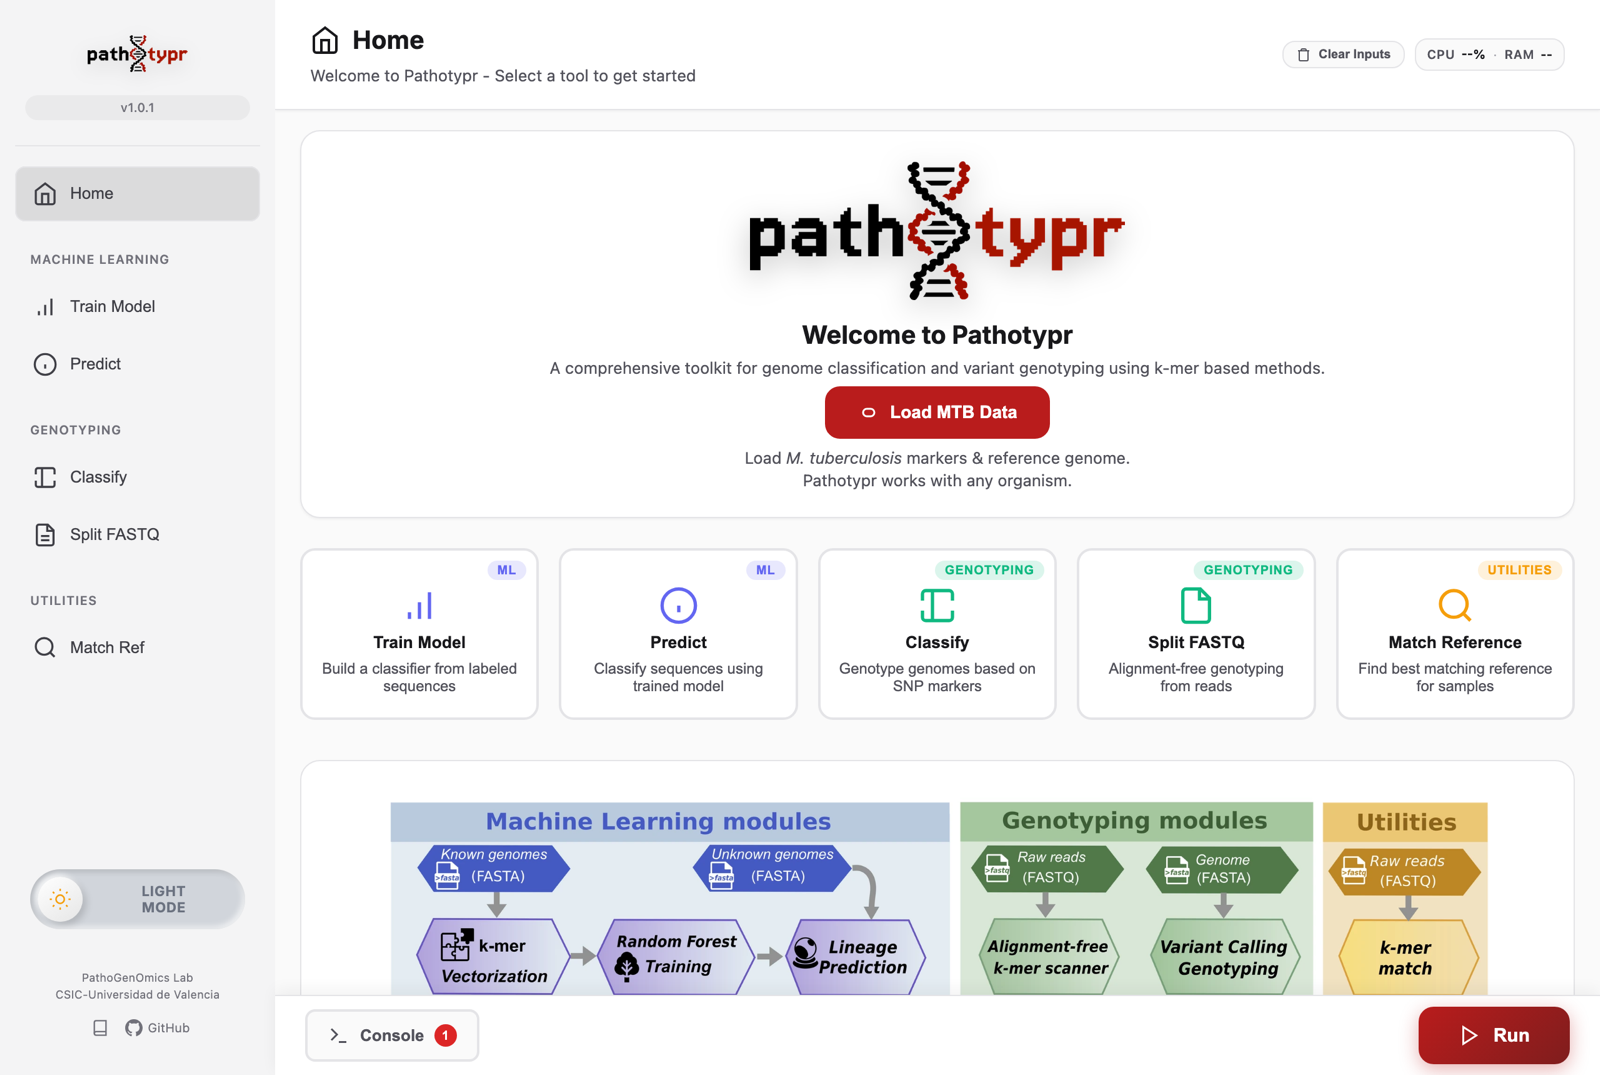
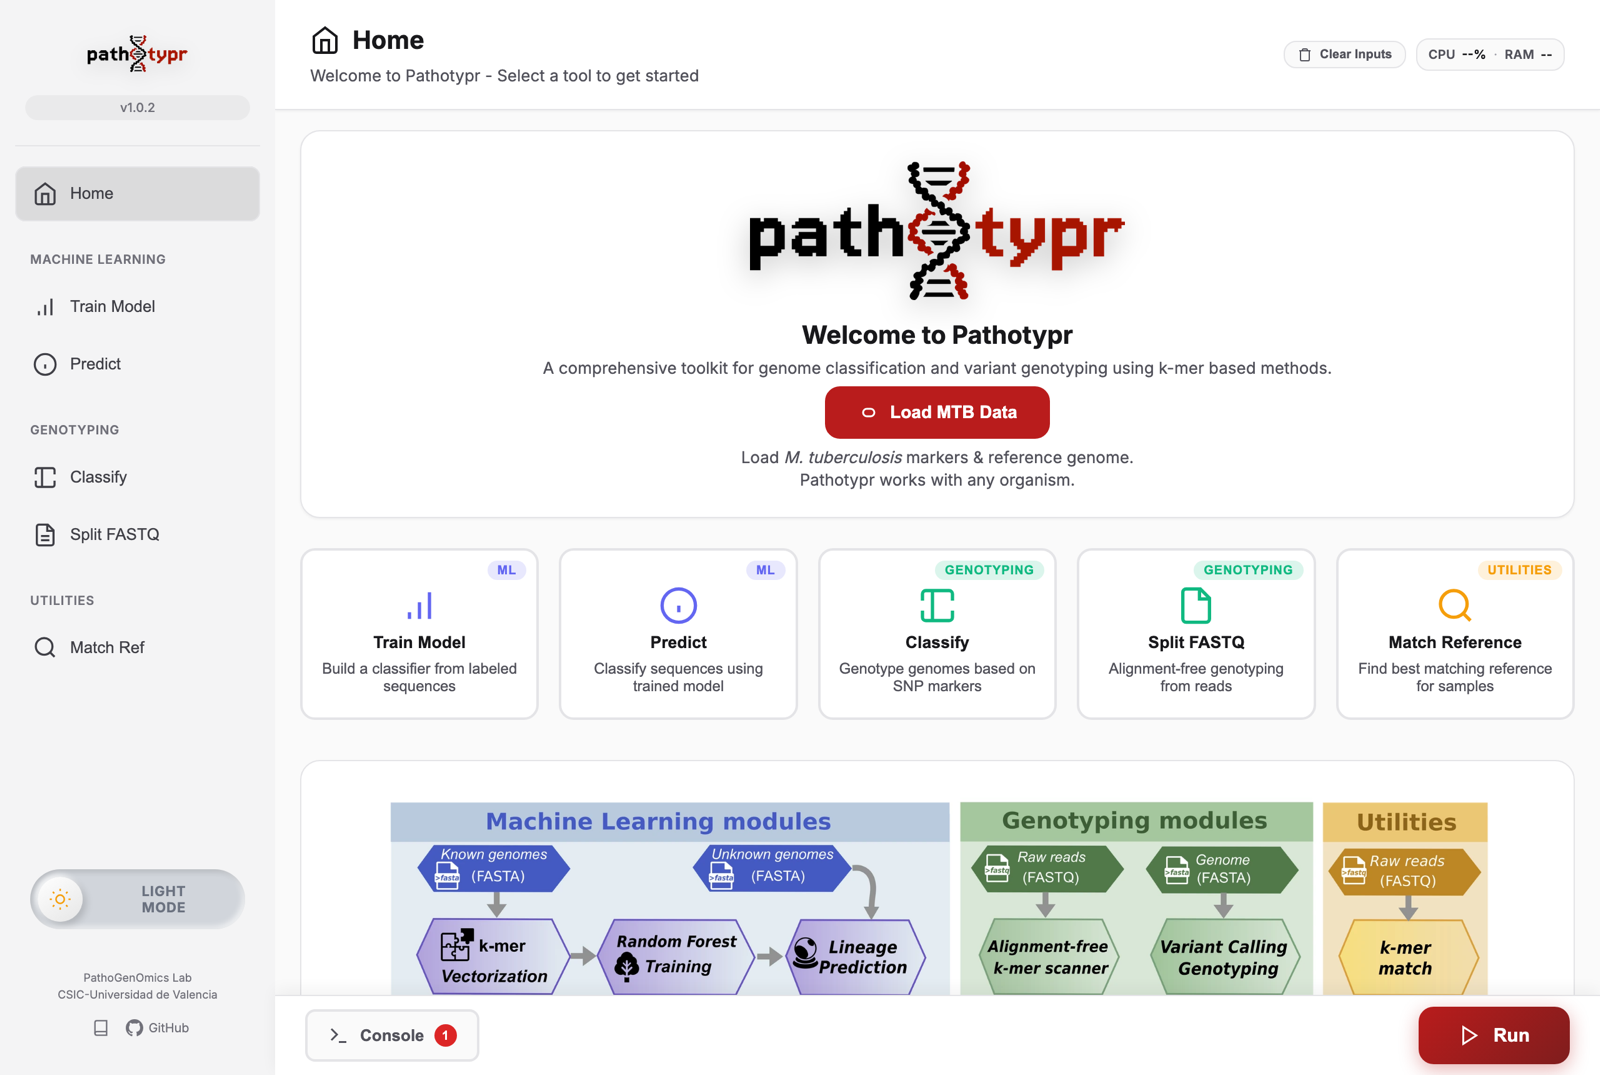
chore(release): align the remaining version strings with 1.0.2
The sidebar's placeholder version and the docs workflow's branch trigger were
still on 1.0.1. The placeholder is replaced at startup by the version the backend
reports, so the app was never wrong, but it is what a statically rendered
screenshot shows, and the documentation screenshots were showing 1.0.1. The
workflow would not have deployed the docs from this branch at all.

diff --git a/frontend/index.html b/frontend/index.html
@@ -20,7 +20,7 @@
         <img src="logo.png" alt="Pathotypr" id="app-logo">
         <!-- Replaced at startup by the version the backend reports; this
              literal is only the fallback shown if that call fails. -->
-        <span class="version" id="app-version">v1.0.1</span>
+        <span class="version" id="app-version">v1.0.2</span>
       </div>
 
       <nav class="nav-menu">
